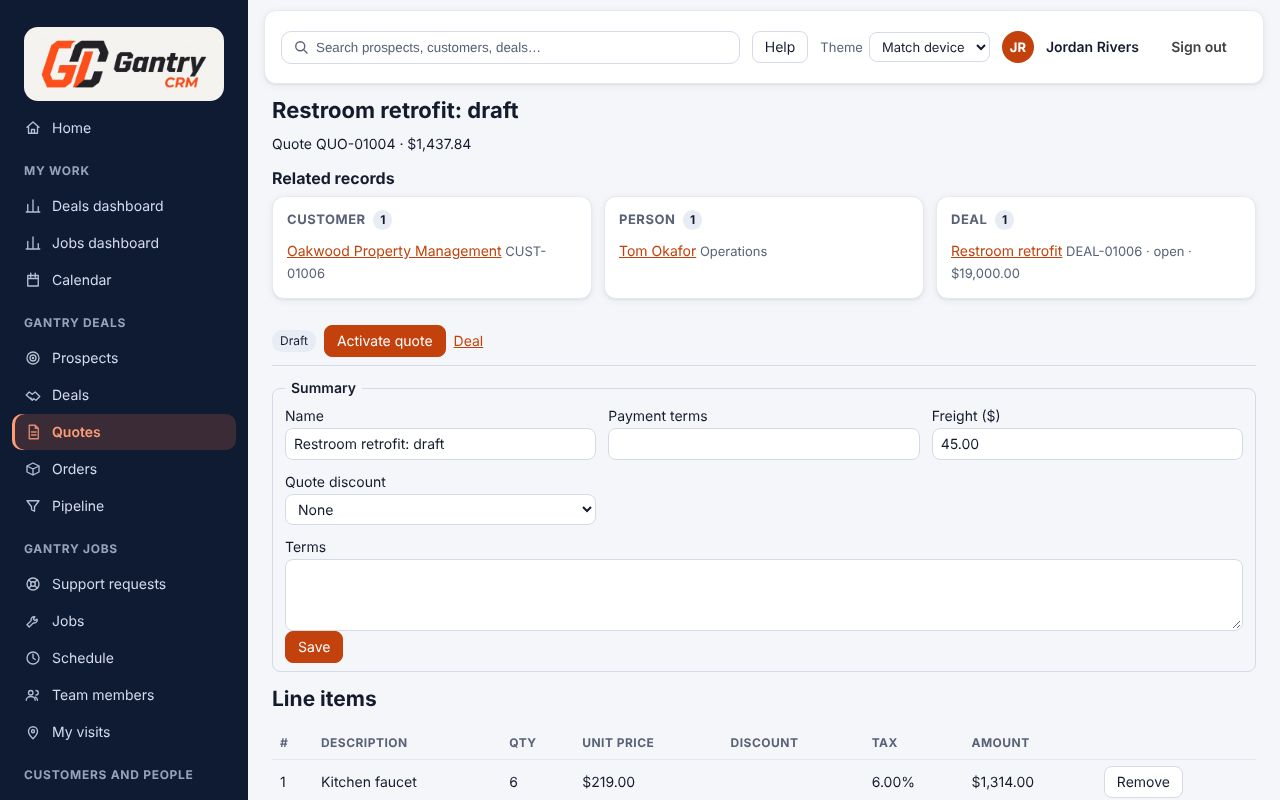
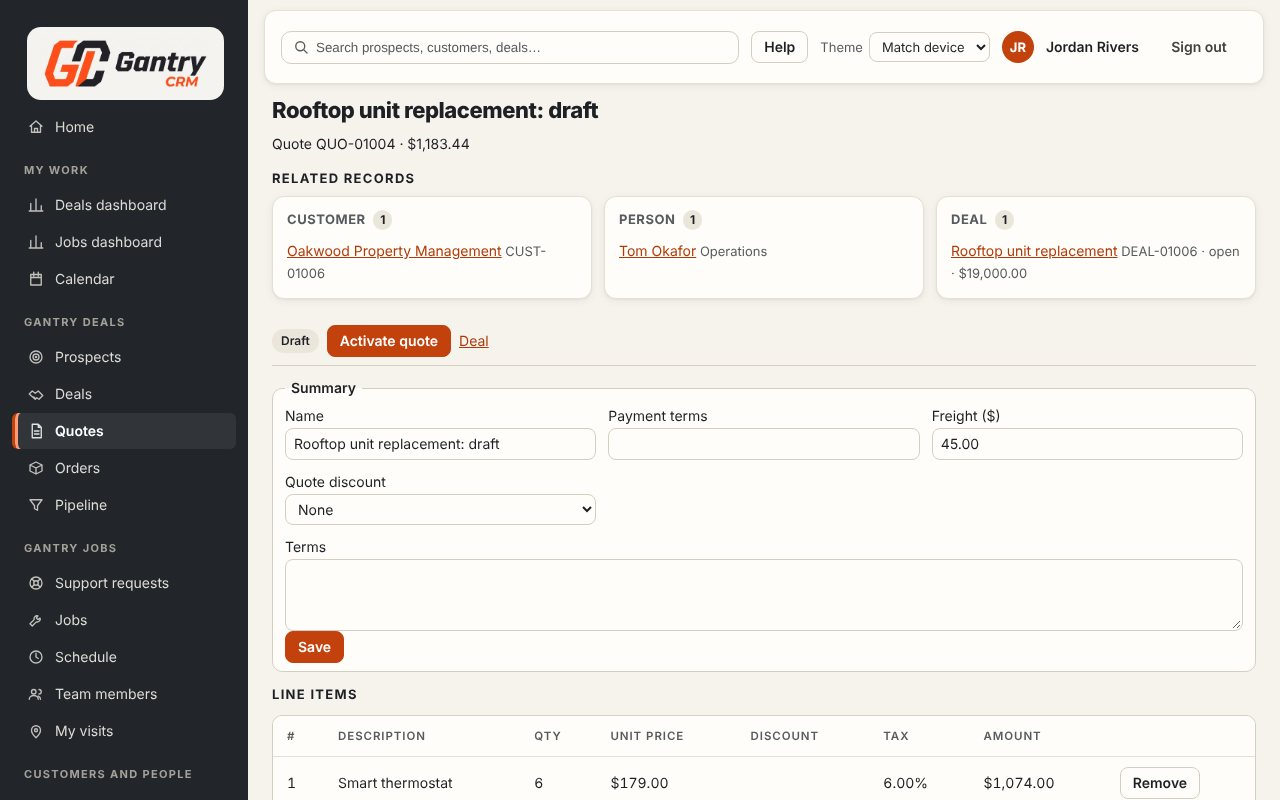
Restyle the app and public site: the Work ticket look
Warm paper background, charcoal menu, orange kept for the main action. Lists are framed sheets
with record numbers shown as tags, record headers read like a ticket, and phase rows carry their
status on a coloured edge. Colours stay in theme.css (contrast test passes in both themes).
Refreshes the four marketing screenshots.

Claude-Session: https://claude.ai/code/session_01NY6q3VBTqUvrqTGsrYGxEW

diff --git a/src/app/crm.css b/src/app/crm.css
@@ -1596,3 +1596,170 @@
   text-align: left;
   white-space: nowrap;
 }
+
+/* ───────────── "Work ticket" look ─────────────
+   Warm paper, charcoal menu, and orange kept for the one main action. Status is carried by a
+   coloured edge (blue scheduled, orange under way, green done, grey waiting), and record numbers
+   read as tags. Colours come from theme.css; this layer only shapes things. */
+:root {
+  --mono: ui-monospace, "SF Mono", "Cascadia Mono", Menlo, Consolas, monospace;
+  --edge-scheduled: var(--ev-blue);
+  --edge-live: var(--accent);
+  --edge-done: var(--ok);
+}
+.crm-sitemap a {
+  border-radius: 6px;
+  border-left: 3px solid transparent;
+}
+.crm-sitemap a[aria-current="page"] {
+  background: var(--nav-hover);
+  color: #fff;
+  border-left-color: var(--accent);
+}
+.crm-sitemap h2 {
+  letter-spacing: 0.12em;
+  font-size: 11px;
+}
+.crm-main h1 {
+  letter-spacing: -0.02em;
+  font-weight: 800;
+}
+.crm-main h2 {
+  font-size: 13px;
+  letter-spacing: 0.1em;
+  text-transform: uppercase;
+  font-weight: 700;
+}
+.crm-btn {
+  border-radius: 8px;
+  font-weight: 600;
+}
+/* Lists and tables: a framed sheet with quiet headings and tabular figures. */
+.crm-grid {
+  background: var(--surface);
+  border: 1px solid var(--border);
+  border-radius: 10px;
+  border-collapse: separate;
+  border-spacing: 0;
+  overflow: hidden;
+  font-variant-numeric: tabular-nums;
+}
+.crm-grid th,
+.crm-grid td {
+  padding: 10px 14px;
+}
+.crm-grid th {
+  letter-spacing: 0.08em;
+  font-size: 11.5px;
+  font-weight: 600;
+  background: var(--surface);
+}
+.crm-grid tbody tr:last-child td {
+  border-bottom: 0;
+}
+.crm-grid tbody tr:hover td {
+  background: var(--hover);
+}
+/* Record numbers (the first column of a list) read as a tag. */
+.crm-grid tbody td:first-child > a {
+  font-family: var(--mono);
+  font-size: 0.86em;
+  letter-spacing: 0.02em;
+  background: var(--surface-2);
+  border: 1px solid var(--border-soft);
+  border-radius: 4px;
+  padding: 1px 6px;
+  text-decoration: none;
+  color: var(--text);
+  white-space: nowrap;
+}
+.crm-grid tbody td:first-child > a:hover {
+  border-color: var(--accent);
+}
+.crm-badge {
+  border-radius: 99px;
+  font-weight: 600;
+  padding: 2px 9px;
+}
+/* A phase row carries its status on its left edge. */
+.crm-grid tr[data-status] td:first-child {
+  border-left: 4px solid var(--grid-line-strong);
+  font-family: var(--mono);
+  font-weight: 700;
+}
+.crm-grid tr[data-status="scheduled"] td:first-child {
+  border-left-color: var(--edge-scheduled);
+}
+.crm-grid tr[data-status="in_progress"] td:first-child {
+  border-left-color: var(--edge-live);
+}
+.crm-grid tr[data-status="in_progress"] td {
+  background: var(--today-bg);
+}
+.crm-grid tr[data-status="completed"] td:first-child {
+  border-left-color: var(--edge-done);
+}
+.crm-panel,
+.crm-section {
+  background: var(--surface);
+  border-color: var(--border);
+  border-radius: 10px;
+}
+.crm-panel {
+  padding: 12px 14px;
+}
+/* The record header reads like the top of a ticket. */
+.crm-header {
+  background: var(--surface);
+  border: 1px solid var(--border);
+  border-top: 4px solid var(--accent);
+  border-radius: 10px;
+  padding: 12px 16px;
+}
+.crm-header dt {
+  font-size: 11.5px;
+  letter-spacing: 0.08em;
+  text-transform: uppercase;
+  font-weight: 600;
+}
+/* Home: figures as one ruled strip rather than floating cards. */
+.crm-tile {
+  border-radius: 10px;
+  border-color: var(--border);
+  box-shadow: none;
+}
+.crm-tile:hover {
+  transform: none;
+  border-color: var(--accent);
+}
+.crm-tile-value {
+  font-variant-numeric: tabular-nums;
+  letter-spacing: -0.02em;
+}
+.crm-tile-label {
+  font-size: 12px;
+  letter-spacing: 0.08em;
+  text-transform: uppercase;
+  font-weight: 600;
+}
+.home-steps,
+.dash-card {
+  border-color: var(--border);
+  border-radius: 10px;
+  box-shadow: none;
+}
+/* Schedule and cards: status on the edge, squarer corners. */
+.sb-block {
+  border-radius: 5px;
+}
+.sb-card,
+.crm-card {
+  border-radius: 8px;
+}
+/* Totals inside a section reuse the header list; they stay plain. */
+section .crm-header {
+  background: transparent;
+  border: 0;
+  border-radius: 0;
+  padding: 8px 0 12px;
+}

diff --git a/src/app/theme.css b/src/app/theme.css
@@ -6,24 +6,24 @@
 :root,
 :root[data-theme="light"] {
   color-scheme: light;
-  --bg: #f5f6fa;
-  --surface: #ffffff;
-  --surface-2: #f0f2f8;
-  --hover: #eceff6;
-  --text: #141b2d;
-  --muted: #586177;
-  --border: #d5dae6;
-  --border-soft: #e6e9f1;
-  --grid-line: #e3e7ef;
-  --grid-line-strong: #c3cad9;
+  --bg: #f6f3ed;
+  --surface: #fffdf9;
+  --surface-2: #efeae1;
+  --hover: #ebe5da;
+  --text: #1d2024;
+  --muted: #575b60;
+  --border: #d6cec0;
+  --border-soft: #e6e0d4;
+  --grid-line: #e4ddd0;
+  --grid-line-strong: #c4bbaa;
   --accent: #c2410c;
   --accent-hover: #9a3412;
-  --accent-text: #c2410c;
+  --accent-text: #b23a0a;
   --on-accent: #ffffff;
   --focus: #1d4ed8;
-  --nav-bg: #0f1a33;
-  --nav-text: #d3dbed;
-  --nav-muted: #97a3bd;
+  --nav-bg: #22262b;
+  --nav-text: #dedbd4;
+  --nav-muted: #a5a198;
   --nav-hover: rgba(255, 255, 255, 0.07);
   --nav-active-bg: rgba(255, 122, 77, 0.18);
   --nav-active-text: #ff9c78;
@@ -34,36 +34,36 @@
   --warn-bg: #fef0c7;
   --warn-border: #b54708;
   --warn-text: #8a4b00;
-  --badge-bg: #e8ecf5;
+  --badge-bg: #ebe6dc;
   --done-bg: #b7ebc9;
-  --today-bg: #fff1ea;
+  --today-bg: #fdeee4;
   --ev-blue: #0f6cbd;
   --ev-orange: #bc4b09;
   --ev-green: #107c10;
   --ev-grey: #6b6a68;
-  --shadow: 0 1px 2px rgba(16, 24, 40, 0.06), 0 2px 8px rgba(16, 24, 40, 0.06);
+  --shadow: 0 1px 2px rgba(29, 32, 36, 0.05), 0 2px 8px rgba(29, 32, 36, 0.06);
 }
 
 :root[data-theme="dark"] {
   color-scheme: dark;
-  --bg: #0b1220;
-  --surface: #121b2e;
-  --surface-2: #18233a;
-  --hover: #1e2b46;
-  --text: #e6eaf4;
-  --muted: #9ba7c0;
-  --border: #2b3957;
-  --border-soft: #223050;
-  --grid-line: #26334f;
-  --grid-line-strong: #3a4a6e;
+  --bg: #15171a;
+  --surface: #1d2024;
+  --surface-2: #25292e;
+  --hover: #2c3137;
+  --text: #ecebe7;
+  --muted: #aba9a2;
+  --border: #3d4249;
+  --border-soft: #30353b;
+  --grid-line: #2e3338;
+  --grid-line-strong: #4a5058;
   --accent: #c2410c;
   --accent-hover: #9a3412;
   --accent-text: #ff9d7a;
   --on-accent: #ffffff;
   --focus: #7ab0ff;
-  --nav-bg: #080d19;
-  --nav-text: #d3dbed;
-  --nav-muted: #97a3bd;
+  --nav-bg: #101214;
+  --nav-text: #dedbd4;
+  --nav-muted: #a5a198;
   --nav-hover: rgba(255, 255, 255, 0.07);
   --nav-active-bg: rgba(255, 122, 77, 0.18);
   --nav-active-text: #ff9c78;
@@ -74,9 +74,9 @@
   --warn-bg: #3a2a0a;
   --warn-border: #f0b429;
   --warn-text: #fec84b;
-  --badge-bg: #25324f;
+  --badge-bg: #32373e;
   --done-bg: #1f5f3a;
-  --today-bg: #2a1f24;
+  --today-bg: #33241c;
   --ev-blue: #0f6cbd;
   --ev-orange: #bc4b09;
   --ev-green: #107c10;
@@ -88,19 +88,19 @@
 @media (prefers-color-scheme: dark) {
   :root[data-theme="system"] {
     color-scheme: dark;
-    --bg: #0b1220;
-    --surface: #121b2e;
-    --surface-2: #18233a;
-    --hover: #1e2b46;
-    --text: #e6eaf4;
-    --muted: #9ba7c0;
-    --border: #2b3957;
-    --border-soft: #223050;
-    --grid-line: #26334f;
-    --grid-line-strong: #3a4a6e;
+    --bg: #15171a;
+    --surface: #1d2024;
+    --surface-2: #25292e;
+    --hover: #2c3137;
+    --text: #ecebe7;
+    --muted: #aba9a2;
+    --border: #3d4249;
+    --border-soft: #30353b;
+    --grid-line: #2e3338;
+    --grid-line-strong: #4a5058;
     --accent-text: #ff9d7a;
     --focus: #7ab0ff;
-    --nav-bg: #080d19;
+    --nav-bg: #101214;
     --danger: #ff9a90;
     --danger-bg: #3a1618;
     --ok: #6ee7a8;
@@ -108,9 +108,9 @@
     --warn-bg: #3a2a0a;
     --warn-border: #f0b429;
     --warn-text: #fec84b;
-    --badge-bg: #25324f;
+    --badge-bg: #32373e;
     --done-bg: #1f5f3a;
-    --today-bg: #2a1f24;
+    --today-bg: #33241c;
     --shadow: 0 1px 2px rgba(0, 0, 0, 0.4), 0 2px 8px rgba(0, 0, 0, 0.3);
   }
 }

diff --git a/src/app/marketing.css b/src/app/marketing.css
@@ -779,3 +779,34 @@
   border-radius: 10px;
   background: var(--surface);
 }
+
+/* "Work ticket" look for the public pages: ruled sections, tighter headings, squarer buttons. */
+.mk h1 {
+  letter-spacing: -0.03em;
+  font-weight: 800;
+}
+.mk h2 {
+  letter-spacing: -0.02em;
+}
+.mk-eyebrow {
+  letter-spacing: 0.14em;
+}
+.mk-btn {
+  border-radius: 8px;
+  font-weight: 600;
+}
+.mk-header {
+  border-bottom-color: var(--border);
+}
+.mk-banner {
+  background: var(--nav-bg);
+  color: #fff;
+  border-bottom: 0;
+}
+.mk-banner strong:last-of-type {
+  font-family: ui-monospace, "SF Mono", Menlo, Consolas, monospace;
+  color: #ffb38a;
+}
+.mk-banner a {
+  color: #ffb38a;
+}

diff --git a/src/components/form/JobPhases.tsx b/src/components/form/JobPhases.tsx
@@ -87,7 +87,7 @@ export function JobPhases(props: {
           </thead>
           <tbody>
             {props.phases.map((p) => (
-              <tr key={p.id}>
+              <tr key={p.id} data-status={p.status}>
                 <td>{p.phaseNumber}</td>
                 <td>
                   <strong>{p.title}</strong>
